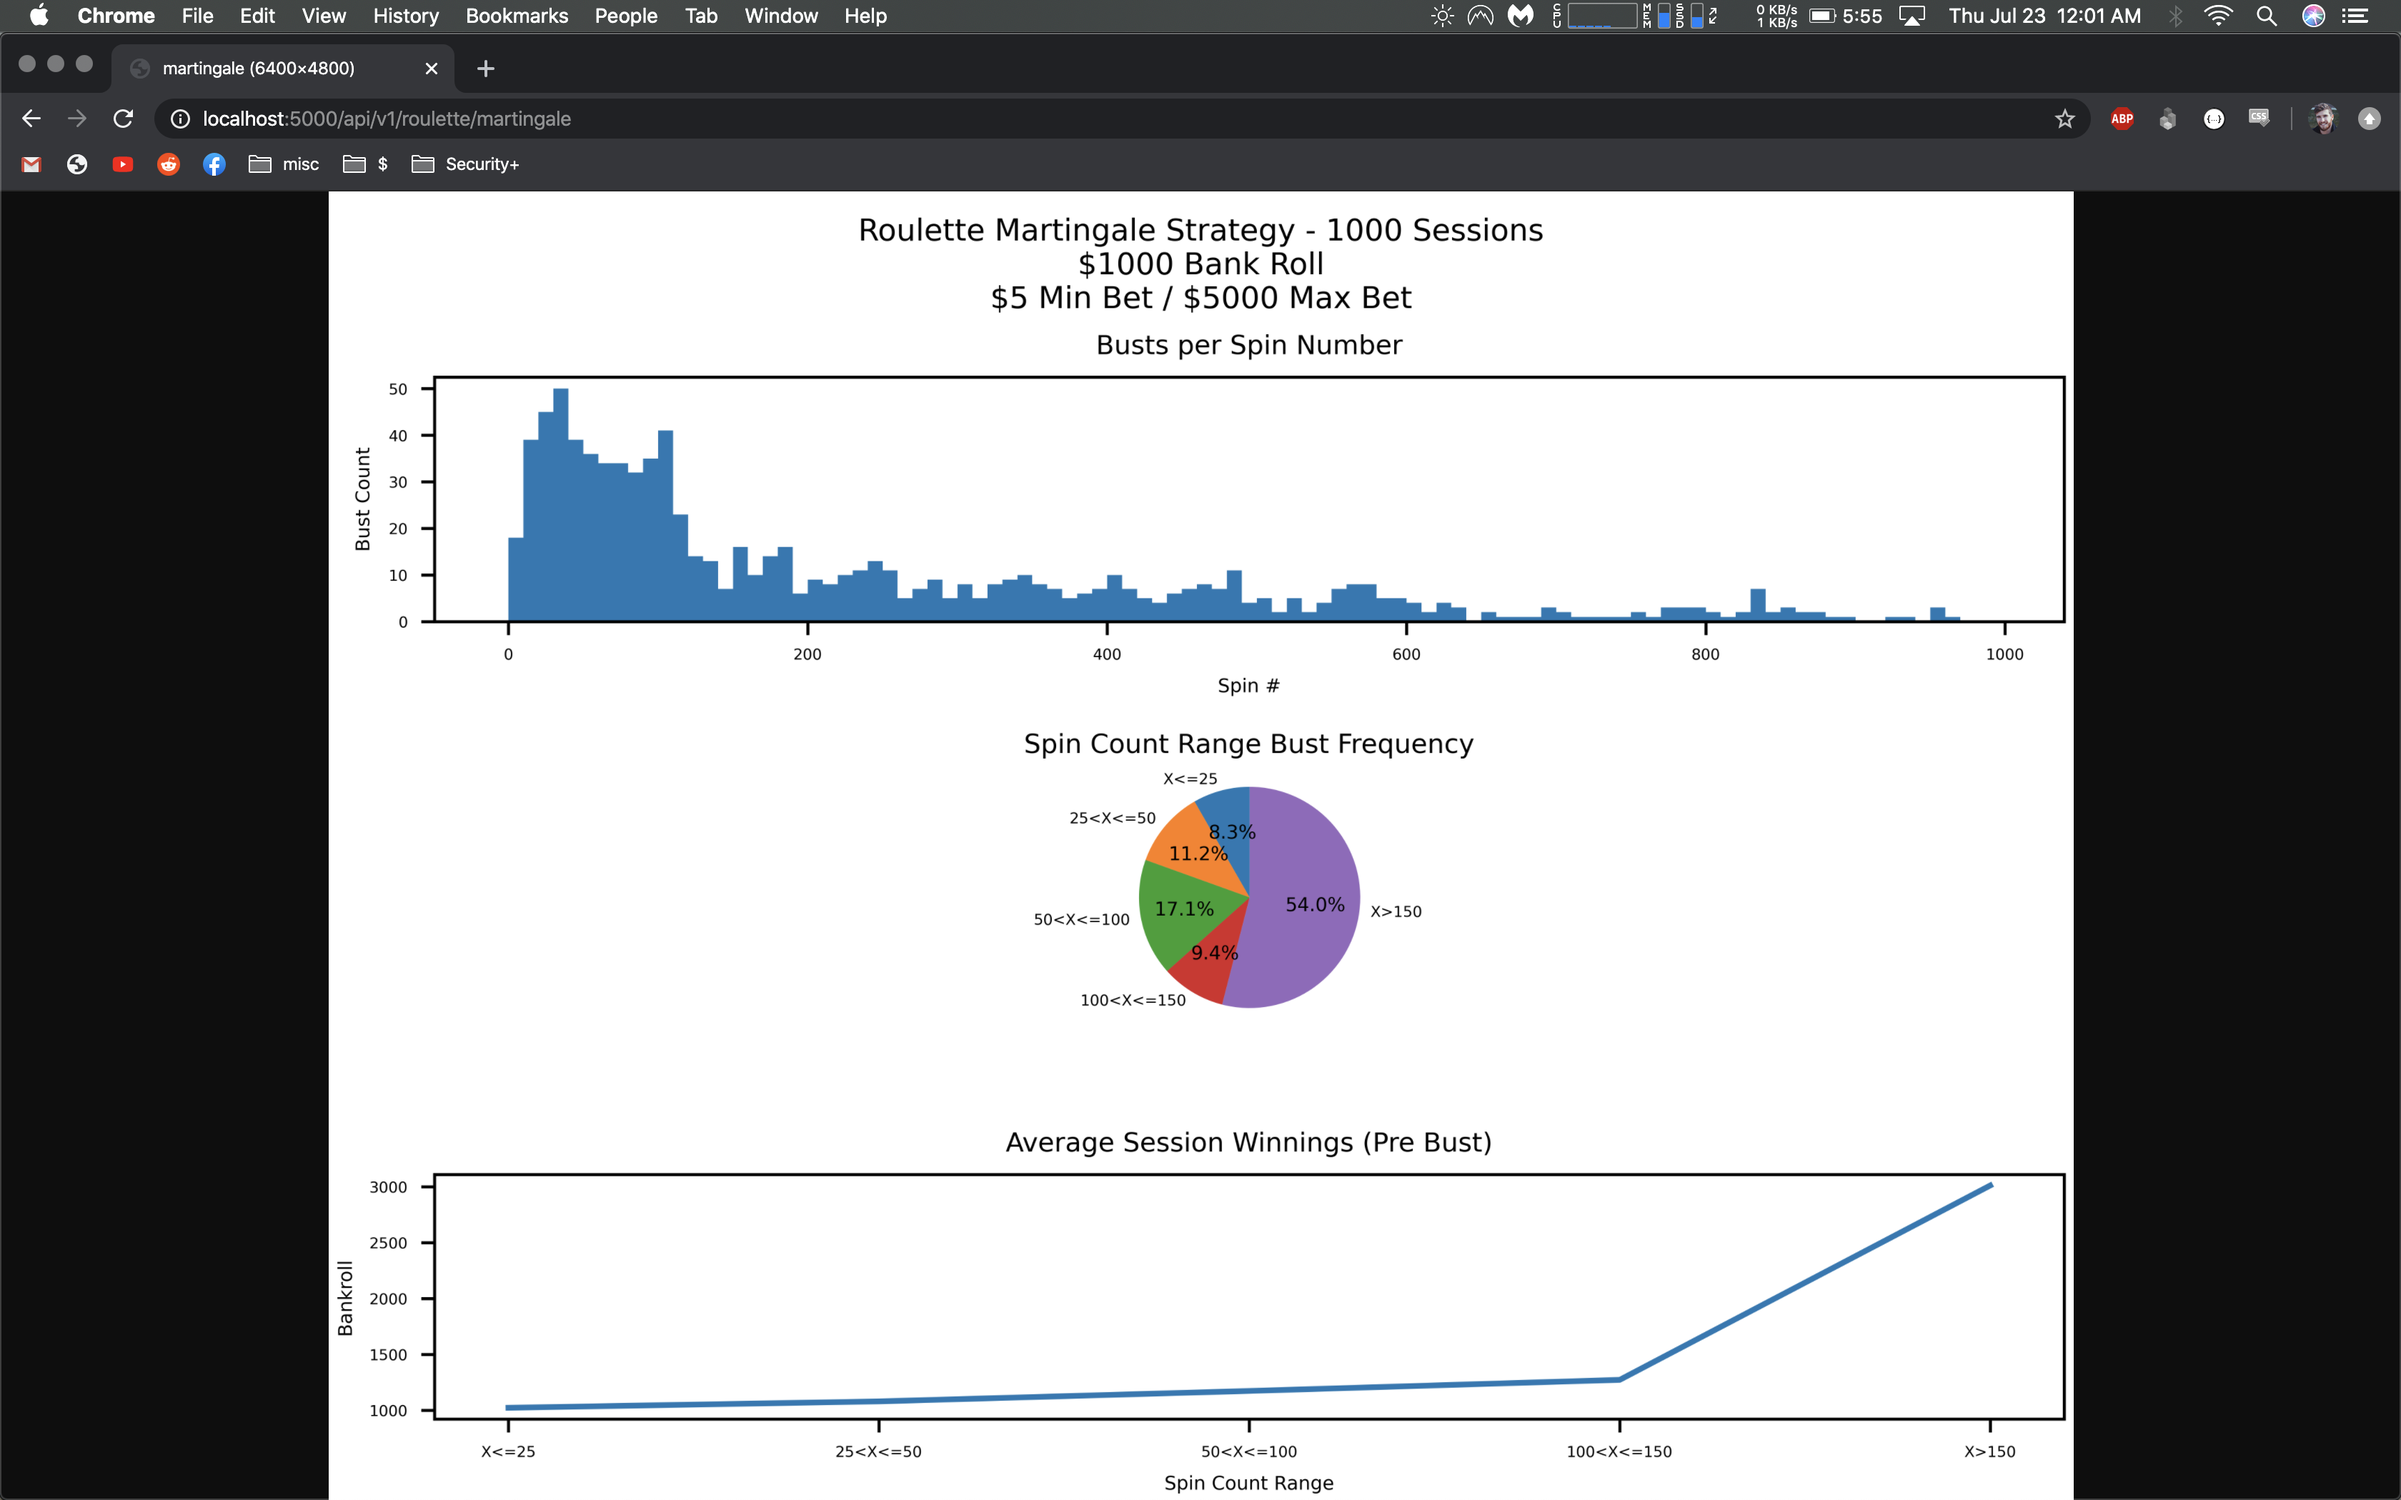
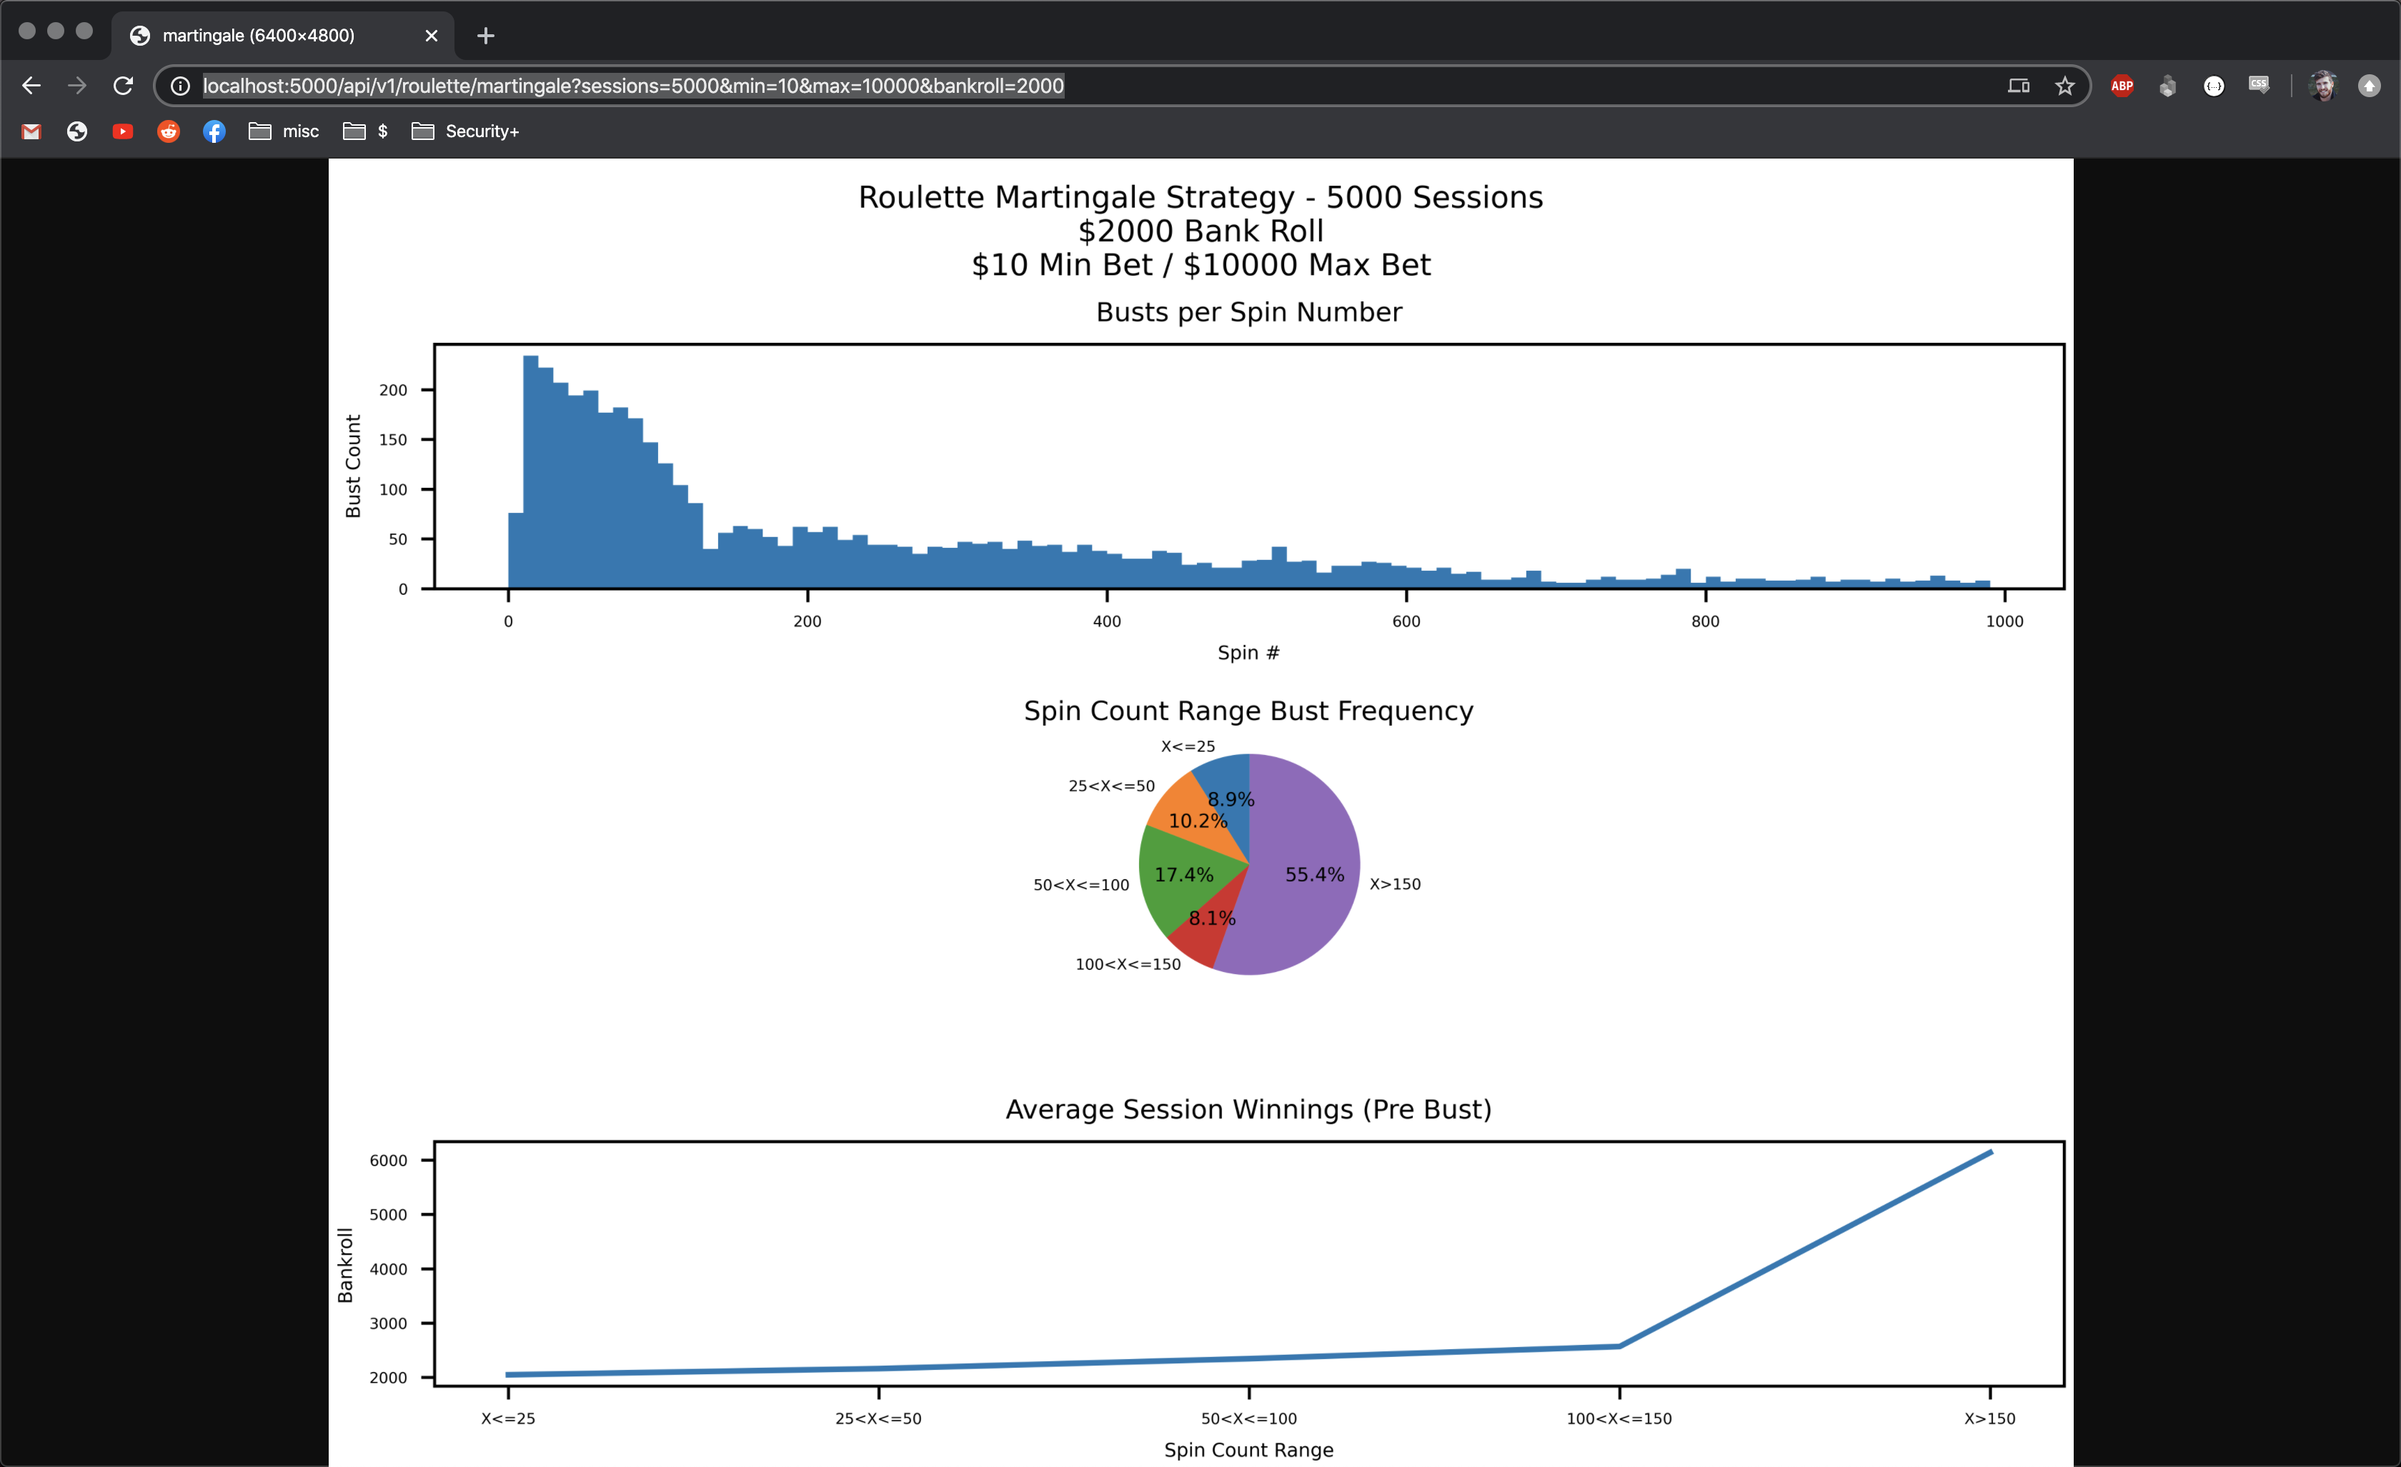
Update README

diff --git a/README.md b/README.md
@@ -1,5 +1,32 @@
 # Roulette Martingale Algorithm Risk Visualizer
 
-Input your table's details and weigh the risk associated with the game's #1 "reliable" strategy!
-
 ![Martingale](output.png)
+
+Input your table's details and visually weigh the risk associated with the game's #1 "reliable" strategy. Gamble responsibly!
+
+## Usage
+This API takes a handful of optional URL query parameters and uses them as initial conditions to run game simulations. The stats gathered from those simulations are used to generate the graphs above.
+
+### Parameters:
+* sessions - (Default 1000) The number of game sessions / simulations the API will run
+* bankroll - (Default 1000) The amount of cash you'll be bringing to the table
+* max - (Default 5000) The roulette table's maximum allowed bet
+* min - (Default 5) The roulette table's minimum allowed bet
+
+### Example URLs:
+*   ```
+    http://localhost:5000/api/v1/roulette/martingale?sessions=5000&min=10&max=10000&bankroll=2000
+    ```
+    * URLs with specificly set parameters
+
+*   ```
+    http://localhost:5000/api/v1/roulette/martingale
+    ```
+    * URL without parameters use defaults
+
+## The Strategy
+> A martingale is any of a class of betting strategies that originated from and were popular in 18th century France. The simplest of these strategies was designed for a game in which the gambler wins the stake if a coin comes up heads and loses it if the coin comes up tails. The strategy had the gambler double the bet after every loss, so that the first win would recover all previous losses plus win a profit equal to the original stake. The martingale strategy has been applied to roulette as well, as the probability of hitting either red or black is close to 50%.
+
+> Since a gambler with infinite wealth will, almost surely, eventually flip heads, the martingale betting strategy was seen as a sure thing by those who advocated it. None of the gamblers possessed infinite wealth, and the exponential growth of the bets would eventually bankrupt "unlucky" gamblers who chose to use the martingale. The gambler usually wins a small net reward, thus appearing to have a sound strategy. However, the gambler's expected value does indeed remain zero (or less than zero) because the small probability that the gambler will suffer a catastrophic loss exactly balances with the expected gain. In a casino, the expected value is negative, due to the house's edge. The likelihood of catastrophic loss may not even be very small. The bet size rises exponentially. This, combined with the fact that strings of consecutive losses actually occur more often than common intuition suggests, can bankrupt a gambler quickly.
+
+[- Wikipedia](https://en.wikipedia.org/wiki/Martingale_(betting_system))
